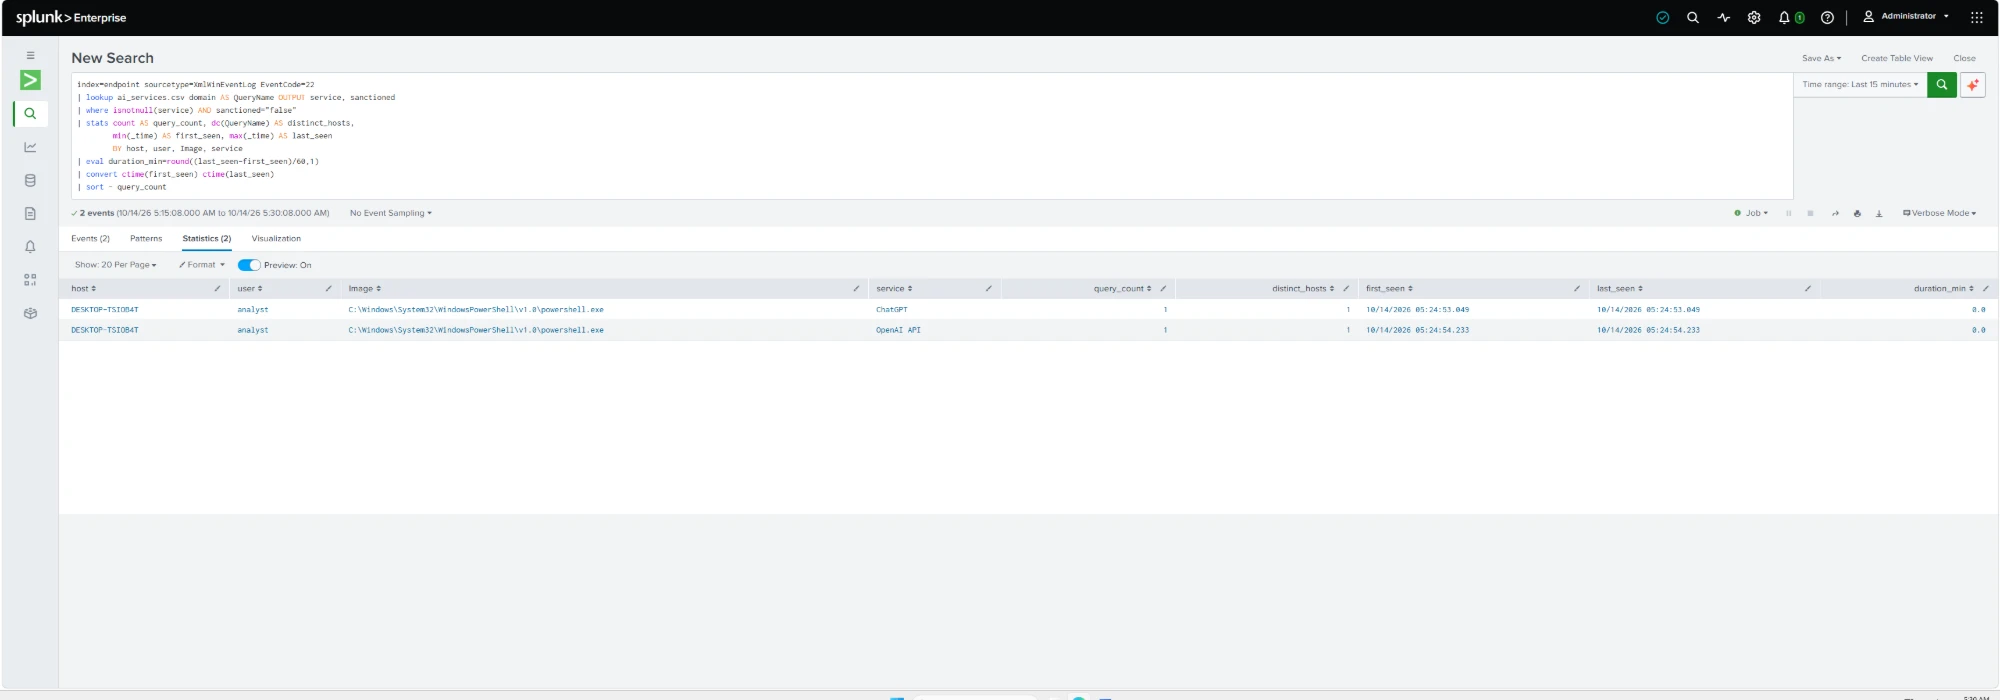
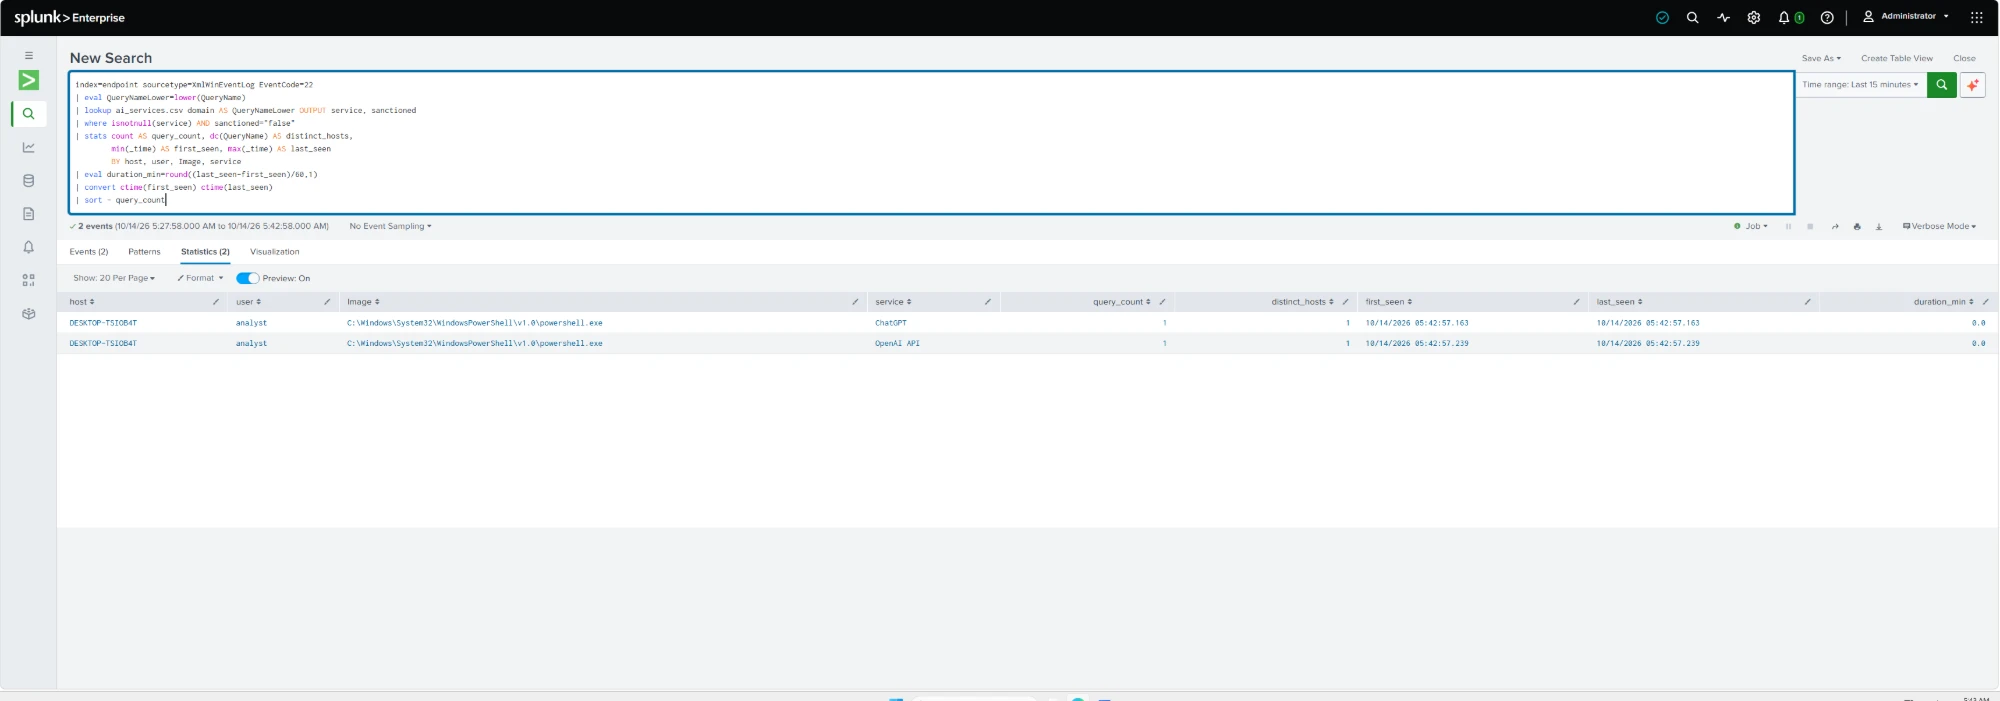
Detection 02: lowercase QueryName before lookup, record mixed-case test
- Logic query 1 now lowercases QueryName before the lookup. DNS is
  case-insensitive but Splunk lookups are case-sensitive by default, so
  a mixed-case query such as ChatGPT.com would have been missed.
- Add test 5 to the validation table: Resolve-DnsName ChatGPT.com and
  Resolve-DnsName API.OpenAI.com both matched. Replace the EID 22
  screenshot with this run.
- Record that api.openai.com was resolved earlier with Resolve-DnsName
  from an admin PowerShell session.
- Mark case sensitivity as resolved. State that subdomain matching is
  not fixed, in the detection limitations and as an open follow-up in
  lab-build.md.

Changed region(s): [[0.0, 0.06, 1.0, 0.51], [0.0, 0.0, 0.062, 0.06]]

diff --git a/detections/02-unsanctioned-ai-egress.md b/detections/02-unsanctioned-ai-egress.md
@@ -29,6 +29,10 @@ Sysmon config sections required: `DnsQuery` must be enabled and must not be filt
 
 **Scripted access to consumer front-ends is bot-blocked.** During validation, `Invoke-WebRequest` to `https://chatgpt.com` received a Cloudflare bot challenge instead of the page content. The detection still fired, because DNS resolution and the TLS connection both completed before the challenge was served. The implication is that real bulk data movement to AI services is more likely to go through APIs than through scripted requests to chat front-ends. `lookups/ai_services.csv` should therefore weight API endpoints over chat front-end domains.
 
+**Case sensitivity, resolved.** DNS is case-insensitive, so a client can resolve `ChatGPT.com` and reach the same service as `chatgpt.com`. Splunk lookups are case-sensitive by default, so the lookup would silently miss the mixed-case query. Logic query 1 now lowercases `QueryName` before the lookup. Verified 2026-10-14 with mixed-case queries, see Validation test 5.
+
+**Subdomains are not matched. Open.** The lookup matches the full `QueryName` exactly. A query for `cdn.chatgpt.com` or `api.chatgpt.com` does not match a CSV row for `chatgpt.com`, so any subdomain not listed in `lookups/ai_services.csv` is missed. This is not fixed.
+
 **Pre-check query.** DNS logging is the single most commonly missing sensor for this detection.
 
 ```spl
@@ -63,19 +67,18 @@ SPL as run in this lab, query 1, DNS (EID 22):
 
 ```spl
 index=endpoint sourcetype=XmlWinEventLog EventCode=22
-| lookup ai_services.csv domain AS QueryName OUTPUT service, sanctioned
+| eval QueryNameLower=lower(QueryName)
+| lookup ai_services.csv domain AS QueryNameLower OUTPUT service, sanctioned
 | where isnotnull(service) AND sanctioned="false"
-| stats count AS query_count,
-        dc(QueryName) AS distinct_hosts,
-        min(_time) AS first_seen,
-        max(_time) AS last_seen
+| stats count AS query_count, dc(QueryName) AS distinct_hosts,
+        min(_time) AS first_seen, max(_time) AS last_seen
         BY host, user, Image, service
 | eval duration_min=round((last_seen-first_seen)/60,1)
 | convert ctime(first_seen) ctime(last_seen)
 | sort - query_count
 ```
 
-The lookup matches on the full `QueryName`. An earlier version reduced `QueryName` to its last two labels before the lookup, so `api.openai.com` became `openai.com` and never matched a row. That reduction has been removed.
+The lookup matches on the full `QueryName`, lowercased first because DNS is case-insensitive and the Splunk lookup is not. Subdomains that are not listed in the CSV still do not match. An earlier version reduced `QueryName` to its last two labels before the lookup, so `api.openai.com` became `openai.com` and never matched a row. That reduction has been removed.
 
 Query 2, network connection (EID 3). This covers the DNS bypass described in Finding 2 below:
 
@@ -99,28 +102,36 @@ Planned tests and what was actually run:
 | # | Planned test | Status |
 | --- | --- | --- |
 | 1 | Browser session to an unsanctioned service | Not run |
-| 2 | Scripted call with `Invoke-WebRequest` | Run from `powershell.exe`. `chatgpt.com` and `api.openai.com` both resolved. Not run in a loop |
+| 2 | Scripted call with `Invoke-WebRequest` | Run once from `powershell.exe` against `https://chatgpt.com`. Not run against an API endpoint and not in a loop. `api.openai.com` was resolved separately with `Resolve-DnsName api.openai.com` from an admin PowerShell session |
 | 3 | Same call from `curl.exe` | Not run |
 | 4 | Bypass DNS-based detection | Not run as planned. A DNS bypass was found by accident with `nslookup`, see Finding 2 |
+| 5 | Mixed-case domains | Run. `Resolve-DnsName ChatGPT.com` and `Resolve-DnsName API.OpenAI.com` both matched, see Finding 1 |
 
 The findings were first observed with simplified searches. Both Logic queries were then re-run exactly as written, and the evidence screenshots show those documented queries.
 
-### Finding 1: the baseline works
+### Finding 1: the baseline works, including mixed-case queries
 
-Behavior generated by `Resolve-DnsName chatgpt.com` and `Invoke-WebRequest https://chatgpt.com`, each of which produced a Sysmon EID 22 event with `Image` = `powershell.exe` and `QueryName` = `chatgpt.com`.
+Behavior generated by `Resolve-DnsName chatgpt.com` and `Invoke-WebRequest https://chatgpt.com`, each of which produced a Sysmon EID 22 event with `Image` = `powershell.exe` and `QueryName` = `chatgpt.com`. `Resolve-DnsName api.openai.com` was run from an admin PowerShell session. The lookup returned ChatGPT and OpenAI API at 05:24:53 and 05:24:54.
 
-Query run: Logic query 1 (EID 22), exactly as written.
+The query was then corrected to lowercase `QueryName` before the lookup, and re-tested with deliberately mixed-case domains:
 
-Result: 2 rows, one per service.
+```powershell
+Resolve-DnsName ChatGPT.com
+Resolve-DnsName API.OpenAI.com
+```
+
+Query run: Logic query 1 (EID 22), exactly as written, including the `lower()` step.
+
+Result: 2 rows, one per service. Both mixed-case queries matched.
 
 | host | user | Image | service | query_count | first_seen |
 | --- | --- | --- | --- | --- | --- |
-| DESKTOP-TSIOB4T | analyst | `C:\Windows\System32\WindowsPowerShell\v1.0\powershell.exe` | ChatGPT | 1 | 10/14/2026 05:24:53.049 |
-| DESKTOP-TSIOB4T | analyst | `C:\Windows\System32\WindowsPowerShell\v1.0\powershell.exe` | OpenAI API | 1 | 10/14/2026 05:24:54.233 |
+| DESKTOP-TSIOB4T | analyst | `C:\Windows\System32\WindowsPowerShell\v1.0\powershell.exe` | ChatGPT | 1 | 10/14/2026 05:42:57.163 |
+| DESKTOP-TSIOB4T | analyst | `C:\Windows\System32\WindowsPowerShell\v1.0\powershell.exe` | OpenAI API | 1 | 10/14/2026 05:42:57.239 |
 
-The OpenAI API row confirms the lookup now matches API domains on the full `QueryName`.
+The OpenAI API row confirms the lookup matches API domains on the full `QueryName`. Both rows confirm that mixed-case queries are caught.
 
-Evidence: `screenshots/02-ai-egress-eid22-dns.png`, which shows Logic query 1 as documented, including the lookup.
+Evidence: `screenshots/02-ai-egress-eid22-dns.png`, which shows Logic query 1 as documented, including the `lower()` step and the lookup, returning both mixed-case queries.
 
 ### Finding 2: DNS-only detection has a bypass, demonstrated
 

diff --git a/docs/lab-build.md b/docs/lab-build.md
@@ -144,7 +144,8 @@ Licence is valid 90 days and extendable twice with `slmgr /rearm`.
 - Removed the label reduction from detection 02. The lookup now matches on the full `QueryName`.
 - Uploaded `lookups/ai_services.csv` through Settings > Lookups > Lookup table files, and documented the upload as a prerequisite in detection 02.
 - Added an EID 3 query to detection 02's Logic section. The file already argued that EID 3 is required to cover DNS evasion, but only the EID 22 query was written down.
-- Re-ran all three Logic queries as written and replaced the screenshots. Detection 01 returned 1 event with `user`, `host`, `parent_process_name`, and `encoded_len` populated. Detection 02's EID 22 query returned 2 rows, ChatGPT and OpenAI API. Detection 02's EID 3 query returned 1 event to `162.159.140.245:443` with an empty `DestinationHostname`. Evidence: `screenshots/01-encoded-powershell-fired.png`, `screenshots/02-ai-egress-eid22-dns.png`, `screenshots/02-ai-egress-eid3-network.png`.
+- Re-ran all three Logic queries as written and replaced the screenshots. Detection 01 returned 1 event with `user`, `host`, `parent_process_name`, and `encoded_len` populated. Detection 02's EID 22 query returned 2 rows, ChatGPT and OpenAI API. The `api.openai.com` query was generated with `Resolve-DnsName api.openai.com` from an admin PowerShell session. Detection 02's EID 3 query returned 1 event to `162.159.140.245:443` with an empty `DestinationHostname`. Evidence: `screenshots/01-encoded-powershell-fired.png`, `screenshots/02-ai-egress-eid22-dns.png`, `screenshots/02-ai-egress-eid3-network.png`.
+- Lowercased `QueryName` before the lookup in detection 02. DNS is case-insensitive but Splunk lookups are case-sensitive by default, so a query for `ChatGPT.com` would have silently missed the `chatgpt.com` row. Verified with `Resolve-DnsName ChatGPT.com` and `Resolve-DnsName API.OpenAI.com`: both matched, returning ChatGPT and OpenAI API at 05:42:57. The detection 02 screenshot was replaced with this run. Resolved.
 - The EID 3 destination differed from the earlier session (`104.18.32.47`). Both addresses are Cloudflare edge nodes. Recorded in detection 02's coverage layers section as evidence that IP-based attribution needs ASN or threat intelligence data rather than a fixed IP list.
 
 These were documentation and logic errors, not telemetry problems. The sensor and the pipeline were working throughout, and both detections had already fired correctly against the raw events in the earlier session.
@@ -153,6 +154,7 @@ These were documentation and logic errors, not telemetry problems. The sensor an
 
 **Follow-up:**
 
+- Detection 02 does not match subdomains. The lookup matches the full `QueryName` exactly, so `cdn.chatgpt.com` or `api.chatgpt.com` will not match a CSV row for `chatgpt.com`. Open.
 - Detection 02 tests 1 (browser), 3 (`curl.exe`), and 4 (hardcoded IP) have not been run.
 - Neither detection has run against normal activity, so no false positive rate has been measured and neither has a tuning history entry. Both remain Validated, not Complete.
 - The SwiftOnSecurity PowerShell exclusion follow-up from 2026-09-12 is still open.
